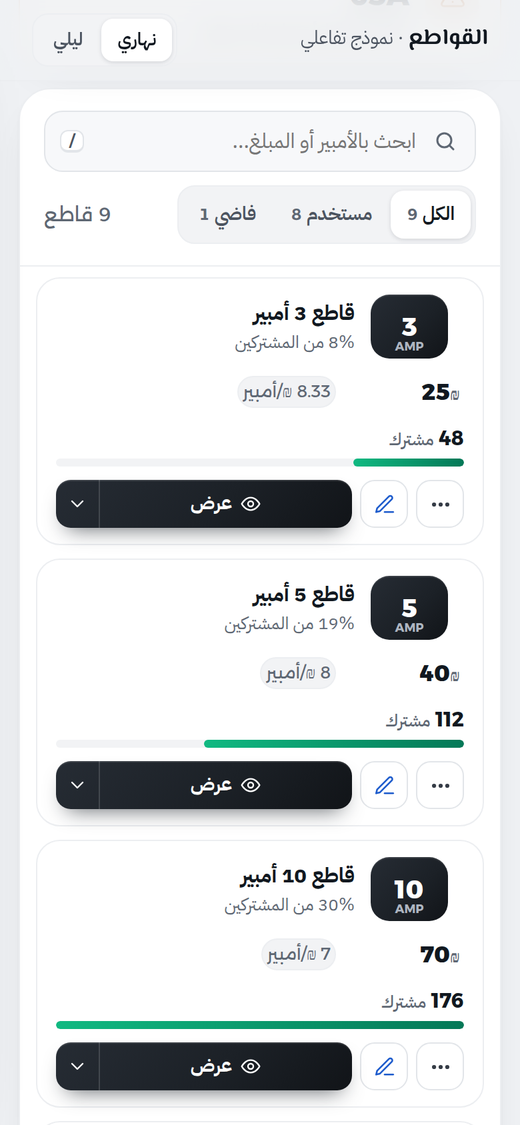
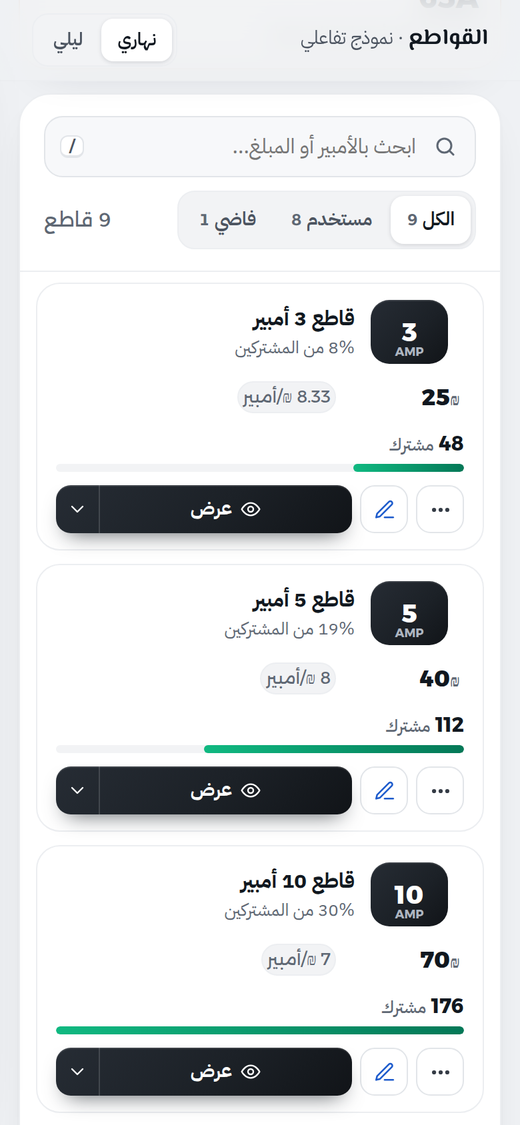
Breakers prototype: drop distribution chart, single summary row
Claude-Session: https://claude.ai/code/session_01XCSA7vHgQhRJfaWcSo7nax

diff --git a/AF-PowerCollect-القواطع.html b/AF-PowerCollect-القواطع.html
@@ -257,7 +257,7 @@ tbody tr:hover .split,tbody tr.kb .split{background:linear-gradient(180deg,var(-
 }
 
 [hidden]{display:none!important}
-.ov{display:grid;grid-template-columns:minmax(0,1.6fr) minmax(0,1fr);gap:14px;margin-top:22px}
+.ov{display:grid;grid-template-columns:minmax(0,1.5fr) repeat(3,minmax(0,1fr));gap:12px;margin-top:22px}
 .hero{position:relative;overflow:hidden;background:var(--hero);color:#fff;border-radius:26px;padding:22px 24px 18px;box-shadow:0 30px 60px -30px #111820aa}
 .hero::after{content:"";position:absolute;inset-inline:0;top:0;height:3px;background:linear-gradient(90deg,#5c0d14,#a51d26 40%,#9aa3ae 75%,#dfe3e8)}
 .hero::before{content:"";position:absolute;inset:auto auto -140px -60px;width:320px;height:320px;border-radius:50%;background:radial-gradient(closest-side,#a51d2640,transparent)}
@@ -274,10 +274,10 @@ tbody tr:hover .split,tbody tr.kb .split{background:linear-gradient(180deg,var(-
 .col.on .bar{box-shadow:0 0 0 2px #fff}
 .col .a{font:800 14px Alexandria;color:#fff}
 .col .a small{font-size:10px;color:#aeb6c1;font-weight:600}
-.hero .foot{position:relative;display:flex;gap:18px;margin-top:14px;padding-top:12px;border-top:1px solid #ffffff17;font-size:13px;color:#aeb6c1;flex-wrap:wrap}
+.hero .foot{position:relative;display:flex;gap:18px;margin-top:22px;padding-top:12px;border-top:1px solid #ffffff17;font-size:13px;color:#aeb6c1;flex-wrap:wrap}
 .hero .foot b{color:#fff;font:700 14px Alexandria;margin-inline-start:4px}
-.side{display:grid;gap:10px;align-content:start}
-.st{background:var(--surface);border:1px solid var(--line2);border-radius:20px;padding:14px 16px;box-shadow:var(--shadow);display:flex;align-items:center;gap:12px}
+.side{display:contents}
+.st{background:var(--surface);border:1px solid var(--line2);border-radius:22px;padding:16px;box-shadow:var(--shadow);display:flex;flex-direction:column;align-items:flex-start;gap:10px}
 .st .ic{width:40px;height:40px;border-radius:12px;display:grid;place-items:center;background:var(--sunken);color:var(--ink2);flex:none}
 .st .ic svg{width:19px;height:19px}
 .st small{display:block;color:var(--faint);font-size:13px;font-weight:600}
@@ -351,8 +351,8 @@ tbody tr:hover .pencil,.pencil:focus-visible{opacity:1;border-color:var(--line);
 .sim .out{display:grid;grid-template-columns:1fr 1fr;gap:8px;margin-top:10px}
 .sim .out div{background:var(--surface);border:1px solid var(--line2);border-radius:12px;padding:8px 10px}
 .sim .out small{display:block;font-size:12px;color:var(--faint)}.sim .out b{font:800 17px Alexandria}
-@media (max-width:1100px){.ov{grid-template-columns:1fr}.col-rev{display:none}}
-@media (max-width:760px){.dist{gap:5px}.col .n{font-size:11px}td.c-subs{grid-column:1/-1}td.c-price{grid-column:1/-1}td.col-rev,td.c-lvl{display:none}.addrow{margin:6px 0 12px}}
+@media (max-width:1100px){.ov{grid-template-columns:1fr 1fr}.hero{grid-column:1/-1}.col-rev{display:none}}
+@media (max-width:760px){.ov{grid-template-columns:1fr}.dist{gap:5px}.col .n{font-size:11px}td.c-subs{grid-column:1/-1}td.c-price{grid-column:1/-1}td.col-rev,td.c-lvl{display:none}.addrow{margin:6px 0 12px}}
 </style>
 </head>
 <body>
@@ -366,7 +366,7 @@ tbody tr:hover .pencil,.pencil:focus-visible{opacity:1;border-color:var(--line);
     <div class="acts"><button class="btn pr" id="newBtn"><svg class="i" viewBox="0 0 24 24" fill="none" stroke="currentColor" stroke-width="2.2" stroke-linecap="round"><path d="M12 5v14M5 12h14"/></svg>قاطع جديد</button></div>
   </div>
   <div class="ov">
-    <section class="hero" id="hero" aria-label="توزيع المشتركين على القواطع"></section>
+    <section class="hero" id="hero" aria-label="ملخص القواطع"></section>
     <div class="side" id="side"></div>
   </div>
   <section class="card">
@@ -413,9 +413,7 @@ const sorted=()=>[...B].sort((a,b)=>a.amp-b.amp);
 function overview(){
   const tot=B.reduce((a,b)=>a+b.subs,0),rev=B.reduce((a,b)=>a+b.subs*b.min,0),mx=Math.max(...B.map(b=>b.subs)),top=[...B].sort((a,b)=>b.subs-a.subs)[0];
   $('#hero').innerHTML=`<div class="top"><div><small>الحد الأدنى المضمون كل شهر</small><div class="big num">${f0(rev)}<span>₪</span></div></div><span class="tag">${tot} مشترك على ${B.filter(b=>b.subs).length} قواطع</span></div>
-  <div class="dist">${sorted().map(b=>`<div class="col ${S.focusAmp===b.amp?'on':''}" data-amp="${b.amp}" title="${b.amp}A · ${b.subs} مشترك · ${b.min} ₪"><span class="n">${b.subs}</span><span class="bar" style="height:${Math.max(4,b.subs/mx*100)}px"></span><span class="a">${b.amp}<small>A</small></span></div>`).join('')}</div>
   <div class="foot"><span>الأكثر استخداماً:<b>${top.amp}A</b></span><span>متوسط الحد الأدنى:<b>${f0(rev/tot)} ₪</b></span><span>سعر الأمبير الواحد:<b>${f2(B.reduce((a,b)=>a+b.min/b.amp,0)/B.length)} ₪</b></span></div>`;
-  $$('.col').forEach(c=>c.onclick=()=>{const a=+c.dataset.amp;S.focusAmp=S.focusAmp===a?null:a;render();const b=B.find(x=>x.amp===a);if(S.focusAmp)$(`tr[data-id="${b.id}"]`)?.scrollIntoView({block:'center',behavior:'smooth'})});
   const unused=B.filter(b=>!b.subs),odd=sorted().filter((b,i,a)=>i&&b.min/b.amp>a[i-1].min/a[i-1].amp*1.25);
   $('#side').innerHTML=`<div class="st"><span class="ic">${ic(I.bolt)}</span><div><small>القواطع</small><b class="num">${B.length}</b><span>من ${Math.min(...B.map(b=>b.amp))}A لـ ${Math.max(...B.map(b=>b.amp))}A</span></div></div>
   <div class="st"><span class="ic">${ic(I.users)}</span><div><small>المشتركون المربوطون</small><b class="num">${tot}</b><span>كل مشترك إله قاطع واحد</span></div></div>
